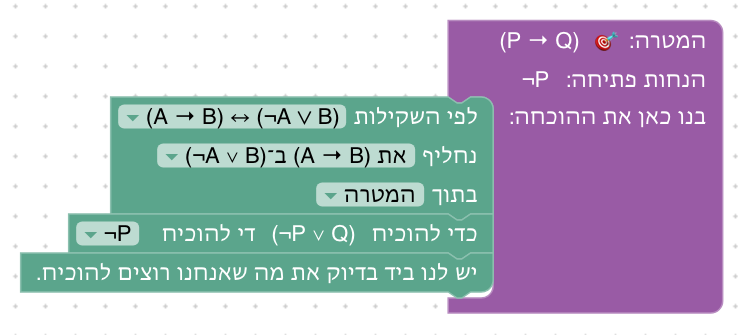
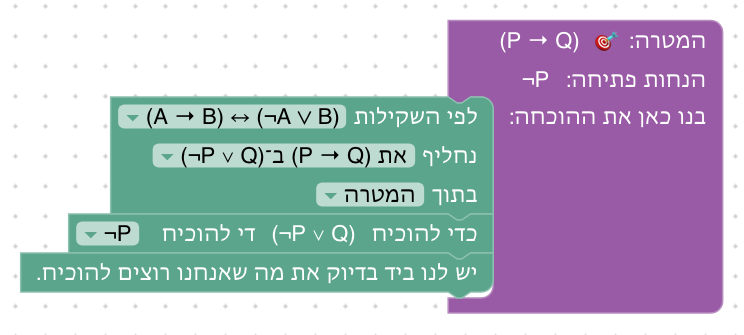
Show what an equivalence replaces, and offer to replace every part
The direction of the equivalence move now shows the replacement in the
chosen place, as the substitution by an equality does ("נחליף את ¬¬Q ב־Q"),
found as Lean finds it: the statement before its parts, left before right.
The move replaces that first part only; when there are several parts of the
form, it also offers "את כל הביטויים מהצורה ¬¬A ב־A" (but not for the
contrapositive, whose replacement would never end).

Changed region(s): [[0.1855, 0.4179, 0.5565, 0.5075]]

diff --git a/frontend/src/blocks/moves.js b/frontend/src/blocks/moves.js
@@ -112,23 +112,103 @@ class FieldDirection extends Blockly.FieldDropdown {
 // quantifier is restated with the bound variable of the formula it is used in
 // (see variable), so that a substitution keeps the formula's names. Double
 // negation is used only to remove one: backward, its side A fits any statement.
+// Each side of a law: when a formula has its form (match, giving the parts),
+// and the formula it is for given parts (text, in Lean's spelling).
+const both = (symbol, negatedLeft, negatedRight) => ({
+    match: (formula) => {
+        const sides = splitConnective(formula, symbol);
+        if (!sides) return null;
+        const a = negatedLeft ? negatedStatement(sides[0]) : sides[0];
+        const b = negatedRight ? negatedStatement(sides[1]) : sides[1];
+        return a && b ? { a, b } : null;
+    },
+    text: ({ a, b }) => `(${negatedLeft ? '¬' : ''}(${a})) ${symbol} (${negatedRight ? '¬' : ''}(${b}))`,
+});
+const negated = (symbol) => ({
+    match: (formula) => {
+        const sides = splitConnective(negatedStatement(formula), symbol);
+        return sides ? { a: sides[0], b: sides[1] } : null;
+    },
+    text: ({ a, b }) => `¬((${a}) ${symbol} (${b}))`,
+});
+const quantified = (symbol, negatedOutside) => ({
+    match: (formula) => {
+        const quantifier = splitQuantifier(negatedOutside ? negatedStatement(formula) : formula, symbol);
+        if (!quantifier) return null;
+        const body = negatedOutside ? quantifier.body : negatedStatement(quantifier.body);
+        return body ? { x: quantifier.variable, body } : null;
+    },
+    text: ({ x, body }) => (negatedOutside ? `¬${symbol} ${x}, ${body}` : `${symbol} ${x}, ¬(${body})`),
+});
+const negatedTwice = {
+    match: (formula) => {
+        const denied = negatedStatement(negatedStatement(formula));
+        return denied ? { a: denied } : null;
+    },
+    text: ({ a }) => `¬¬(${a})`,
+};
+const any = { match: (formula) => ({ a: formula }), text: ({ a }) => a };
+// Contraposition: ¬B → ¬A has the parts in the other order.
+const contraposed = {
+    match: (formula) => {
+        const parts = both('→', true, true).match(formula);
+        return parts && { a: parts.b, b: parts.a };
+    },
+    text: ({ a, b }) => `(¬(${b})) → (¬(${a}))`,
+};
+
+// Unit 5. The laws of logical equivalence, each proved in both directions in
+// earlier levels, as students read them (with schematic letters A, B, as the
+// moves of unit 3 do), as Lean's lemmas (EQUIV_PRELUDE), and as the forms of
+// their two sides, to show what a replacement replaces. A law about a
+// quantifier is restated with the bound variable of the formula it is used in
+// (see variable), so that a substitution keeps the formula's names. Double
+// negation is used only to remove one: backward, its side A fits any statement.
 export const LAWS = [
-    { value: 'easylean_not_not', left: '¬¬A', right: 'A', backward: false },
-    { value: 'easylean_not_or', left: '¬(A ∨ B)', right: '(¬A ∧ ¬B)' },
-    { value: 'easylean_not_and', left: '¬(A ∧ B)', right: '(¬A ∨ ¬B)' },
-    { value: 'easylean_imp_or', left: '(A → B)', right: '(¬A ∨ B)' },
-    { value: 'easylean_contrapositive', left: '(A → B)', right: '(¬B → ¬A)' },
+    { value: 'easylean_not_not', left: '¬¬A', right: 'A', backward: false, sides: [negatedTwice, any] },
+    { value: 'easylean_not_or', left: '¬(A ∨ B)', right: '(¬A ∧ ¬B)', sides: [negated('∨'), both('∧', true, true)] },
+    { value: 'easylean_not_and', left: '¬(A ∧ B)', right: '(¬A ∨ ¬B)', sides: [negated('∧'), both('∨', true, true)] },
+    { value: 'easylean_imp_or', left: '(A → B)', right: '(¬A ∨ B)', sides: [both('→', false, false), both('∨', true, false)] },
+    // Replacing every implication by its contrapositive would never end.
+    { value: 'easylean_contrapositive', left: '(A → B)', right: '(¬B → ¬A)', sides: [both('→', false, false), contraposed], all: false },
     {
-        value: 'easylean_not_exists', left: '¬∃x P(x)', right: '∀x ¬P(x)',
+        value: 'easylean_not_exists', left: '¬∃x P(x)', right: '∀x ¬P(x)', sides: [quantified('∃', true), quantified('∀', false)],
         statement: (x) => `(¬∃ ${x}, p ${x}) ↔ ∀ ${x}, ¬p ${x}`,
         variable: [/¬\s*∃\s*\(?\s*([^\s,:()]+)/, /∀\s*\(?\s*([^\s,:()]+)[^,]*,\s*¬/],
     },
     {
-        value: 'easylean_not_forall', left: '¬∀x P(x)', right: '∃x ¬P(x)',
+        value: 'easylean_not_forall', left: '¬∀x P(x)', right: '∃x ¬P(x)', sides: [quantified('∀', true), quantified('∃', false)],
         statement: (x) => `(¬∀ ${x}, p ${x}) ↔ ∃ ${x}, ¬p ${x}`,
         variable: [/¬\s*∀\s*\(?\s*([^\s,:()]+)/, /∃\s*\(?\s*([^\s,:()]+)[^,]*,\s*¬/],
     },
 ];
+
+// The parts of a formula, in the order Lean's rewrite looks at them: a
+// formula before its parts, and the left part before the right one.
+const formulaParts = (formula) => {
+    for (const symbol of ['↔', '→', '∨', '∧']) {
+        const sides = splitConnective(formula, symbol);
+        if (sides) return sides;
+    }
+    const denied = negatedStatement(formula);
+    if (denied) return [denied];
+    const quantifier = splitQuantifier(formula, '∀') || splitQuantifier(formula, '∃');
+    return quantifier ? [quantifier.body] : [];
+};
+
+// The parts of a formula of the given side's form, in that order, each as the
+// replacement it makes: [what is replaced, by what].
+const lawInstances = (law, backward, formula) => {
+    const [from, to] = backward ? [law.sides[1], law.sides[0]] : law.sides;
+    const found = [];
+    const search = (part) => {
+        const parts = from.match(part);
+        if (parts) found.push([from.text(parts), to.text(parts)]);
+        formulaParts(part).forEach(search);
+    };
+    if (formula && from !== any) search(formula);
+    return found;
+};
 
 const lawOf = (value) => LAWS.find((law) => law.value === value);
 const lawLabel = (law) => `${law.left} ↔ ${law.right}`;
@@ -157,16 +237,30 @@ class FieldLaw extends Blockly.FieldDropdown {
 class FieldLawDirection extends Blockly.FieldDropdown {
     constructor() {
         super(function () {
-            const law = lawOf(this.getSourceBlock()?.getFieldValue('LAW'));
+            const block = this.getSourceBlock();
+            const law = lawOf(block?.getFieldValue('LAW'));
             if (!law) return [['משמאל לימין', 'FORWARD'], ['מימין לשמאל', 'BACKWARD']];
-            const forward = [isolateHebrew(`את ${isolateFormulas(law.left)} ב־${isolateFormulas(law.right)}`), 'FORWARD'];
-            const backward = [isolateHebrew(`את ${isolateFormulas(law.right)} ב־${isolateFormulas(law.left)}`), 'BACKWARD'];
-            return law.backward === false ? [forward] : [forward, backward];
+            // What it replaces in the chosen place, when that has the side's form;
+            // otherwise the law's sides themselves.
+            const target = block.getFieldValue('TARGET');
+            const formula = target === GOAL ? block.stateBefore?.goal : filled(target) && target;
+            const sides = (backward) => (backward ? [law.right, law.left] : [law.left, law.right]).map(isolateFormulas);
+            // The first part of that form, or, when there are several, all of them.
+            const options = (backward) => {
+                const instances = lawInstances(law, backward, formula);
+                const [from, to] = instances.length ? instances[0].map(shown) : sides(backward);
+                const direction = backward ? 'BACKWARD' : 'FORWARD';
+                const first = [isolateHebrew(`את ${from} ב־${to}`), direction];
+                if (instances.length < 2 || law.all === false) return [first];
+                const [form, replacement] = sides(backward);
+                return [first, [isolateHebrew(`את כל הביטויים מהצורה ${form} ב־${replacement}`), `${direction}_ALL`]];
+            };
+            return law.backward === false ? options(false) : [...options(false), ...options(true)];
         });
     }
 
     doClassValidation_(value) {
-        return ['FORWARD', 'BACKWARD'].includes(value) ? value : null;
+        return ['FORWARD', 'BACKWARD', 'FORWARD_ALL', 'BACKWARD_ALL'].includes(value) ? value : null;
     }
 
     refreshText() {
@@ -957,14 +1051,16 @@ leanGenerator.forBlock['unfold'] = (block) => {
     return `  first\n  | (guard_target =ₛ ${statement}; apply ${definition.lemma}.mpr)\n  | have := ${definition.lemma}.mp ‹${statement}›\n`;
 };
 
-// Unit 5. `rewrite` replaces the first instance of the law's side (and every
-// copy of it); inside a quantifier, which `rewrite` cannot reach, `simp only`
-// replaces all of them. A law about a quantifier is restated, for this move
-// only, with the formula's bound variable, so that the result keeps its names.
+// Unit 5. `rewrite` replaces the first part of the form of the law's side;
+// inside a quantifier, which `rewrite` cannot reach, `simp only` does, and it
+// replaces all of them, as it does when all are chosen. A law about a
+// quantifier is restated, for this move only, with the formula's bound
+// variable, so that the result keeps its names.
 leanGenerator.forBlock['replace'] = (block) => {
     const law = lawOf(block.getFieldValue('LAW'));
     if (!law) return '  skip\n';
-    const backward = block.getFieldValue('DIRECTION') === 'BACKWARD';
+    const direction = block.getFieldValue('DIRECTION');
+    const backward = direction.startsWith('BACKWARD');
     const target = block.getFieldValue('TARGET');
     const onGoal = target === GOAL;
     const text = onGoal ? block.stateBefore?.goal || '' : target;
@@ -981,7 +1077,8 @@ leanGenerator.forBlock['replace'] = (block) => {
     }
     const rule = `${backward ? '← ' : ''}${name}`;
     const side = backward ? law.right : law.left;
-    return `  ${copy}${restated}(first | rewrite [${rule}]${at} | simp only [${rule}]${at} | fail "easylean: no part of the form ${side}")${cleanup}\n`;
+    const first = direction.endsWith('_ALL') ? '' : `rewrite (occs := .pos [1]) [${rule}]${at} | `;
+    return `  ${copy}${restated}(first | ${first}simp only [${rule}]${at} | fail "easylean: no part of the form ${side}")${cleanup}\n`;
 };
 
 // Unit 8. `rewrite`, not `rw`, which would also try to close the goal; in a

diff --git a/frontend/e2e/walk.spec.js b/frontend/e2e/walk.spec.js
@@ -293,9 +293,10 @@ const UNIT4 = [
 // Each level of unit 5, as its hints describe it.
 const replace = async (page, where, law, direction, target, log) => {
     const r = await drag(page, 'replace', where);
+    // The place first: the direction shows what is replaced there.
     await choose(page, r, 'LAW', law);
-    await choose(page, r, 'DIRECTION', direction);
     await choose(page, r, 'TARGET', target);
+    await choose(page, r, 'DIRECTION', direction);
     log(await phrase(page, r));
     return r;
 };
@@ -343,35 +344,35 @@ const UNIT5 = [
         const c = await drag(page, 'contradiction', { after: f }); await choose(page, c, 'FACT', 'P(x₀)');
     }),
     async (page, log) => {
-        const r = await replace(page, { goal: true }, IMP_OR, 'את (A → B) ב־(¬A ∨ B)', 'המטרה', log); log(await state(page));
+        const r = await replace(page, { goal: true }, IMP_OR, 'את (P → Q) ב־(¬P ∨ Q)', 'המטרה', log); log(await state(page));
         const o = await drag(page, 'or_intro', { after: r }); await choose(page, o, 'SIDE', '¬P'); log(await phrase(page, o));
         await drag(page, 'exact', { after: o });
     },
     async (page, log) => {
-        const r = await replace(page, { goal: true }, NOT_OR, 'את ¬(A ∨ B) ב־(¬A ∧ ¬B)', '¬(P ∨ Q)', log);
+        const r = await replace(page, { goal: true }, NOT_OR, 'את ¬(P ∨ Q) ב־(¬P ∧ ¬Q)', '¬(P ∨ Q)', log);
         const d = await drag(page, 'and_elim', { after: r }); await choose(page, d, 'AND', '(¬P ∧ ¬Q)'); log(await phrase(page, d));
         await drag(page, 'exact', { after: d });
     },
     async (page, log) => {
         const a = await drag(page, 'assume', { goal: true }); log(await phrase(page, a));
-        const r = await replace(page, { after: a }, '(A → B) ↔ (¬B → ¬A)', 'את (A → B) ב־(¬B → ¬A)', 'המטרה', log);
+        const r = await replace(page, { after: a }, '(A → B) ↔ (¬B → ¬A)', 'את (P → Q) ב־(¬Q → ¬P)', 'המטרה', log);
         await drag(page, 'exact', { after: r });
     },
     async (page, log) => {
         const a = await drag(page, 'assume', { goal: true }); log(await phrase(page, a));
-        const r1 = await replace(page, { after: a }, NOT_OR, 'את ¬(A ∨ B) ב־(¬A ∧ ¬B)', '¬(P ∨ ¬Q)', log);
-        const r2 = await replace(page, { after: r1 }, '¬¬A ↔ A', 'את ¬¬A ב־A', '(¬P ∧ ¬¬Q)', log);
+        const r1 = await replace(page, { after: a }, NOT_OR, 'את ¬(P ∨ ¬Q) ב־(¬P ∧ ¬¬Q)', '¬(P ∨ ¬Q)', log);
+        const r2 = await replace(page, { after: r1 }, '¬¬A ↔ A', 'את ¬¬Q ב־Q', '(¬P ∧ ¬¬Q)', log);
         await drag(page, 'exact', { after: r2 });
     },
     async (page, log) => {
         const a = await drag(page, 'assume', { goal: true }); log(await phrase(page, a));
-        const r1 = await replace(page, { after: a }, '¬∀x P(x) ↔ ∃x ¬P(x)', 'את ¬∀x P(x) ב־∃x ¬P(x)', '¬∀x ∃y R(x,y)', log);
-        const r2 = await replace(page, { after: r1 }, '¬∃x P(x) ↔ ∀x ¬P(x)', 'את ¬∃x P(x) ב־∀x ¬P(x)', '∃x ¬∃y R(x,y)', log); log(await state(page));
+        const r1 = await replace(page, { after: a }, '¬∀x P(x) ↔ ∃x ¬P(x)', 'את ¬∀x ∃y R(x,y) ב־∃x ¬∃y R(x,y)', '¬∀x ∃y R(x,y)', log);
+        const r2 = await replace(page, { after: r1 }, '¬∃x P(x) ↔ ∀x ¬P(x)', 'את ¬∃y R(x,y) ב־∀y ¬R(x,y)', '∃x ¬∃y R(x,y)', log); log(await state(page));
         await drag(page, 'exact', { after: r2 });
     },
     async (page, log) => {
         const a = await drag(page, 'assume', { goal: true }); log(await phrase(page, a));
-        const r = await replace(page, { after: a }, IMP_OR, 'את (¬A ∨ B) ב־(A → B)', 'המטרה', log);
+        const r = await replace(page, { after: a }, IMP_OR, 'את (¬P ∨ ¬Q) ב־(P → ¬Q)', 'המטרה', log);
         const a2 = await drag(page, 'assume', { after: r }); log(await phrase(page, a2));
         const n = await drag(page, 'not_intro', { after: a2 }); log(await phrase(page, n));
         const e = await drag(page, 'not_elim', { after: n }); await choose(page, e, 'NEGATION', '¬(P ∧ Q)'); log(await phrase(page, e));

diff --git a/frontend/src/game/moves.test.js b/frontend/src/game/moves.test.js
@@ -241,10 +241,10 @@ describe('the moves of unit 5', () => {
         const { workspace } = solved(level, UNITS[5].levels[5][0].steps);
         const code = generateGameLeanCode(workspace, level, '', { includeFallback: false });
         expect(code).toContain('theorem easylean_imp_or ');
-        expect(code).toContain('  (first | rewrite [easylean_imp_or] | simp only [easylean_imp_or] | fail "easylean: no part of the form (A → B)")\n');
+        expect(code).toContain('  (first | rewrite (occs := .pos [1]) [easylean_imp_or] | simp only [easylean_imp_or] | fail "easylean: no part of the form (A → B)")\n');
         const inHand = solved(unit5Levels[6], UNITS[5].levels[6][0].steps).workspace;
         expect(generateGameLeanCode(inHand, unit5Levels[6], '', { includeFallback: false }))
-            .toContain('  have := ‹¬(P ∨ Q)›; (first | rewrite [easylean_not_or] at this | simp only [easylean_not_or] at this | fail "easylean: no part of the form ¬(A ∨ B)")\n');
+            .toContain('  have := ‹¬(P ∨ Q)›; (first | rewrite (occs := .pos [1]) [easylean_not_or] at this | simp only [easylean_not_or] at this | fail "easylean: no part of the form ¬(A ∨ B)")\n');
     });
 
     it('keep the bound variables of the formula when a law is about a quantifier', () => {
@@ -255,14 +255,22 @@ describe('the moves of unit 5', () => {
         expect(code).toContain('have easylean_law : ∀ (α : Type) (p : α → Prop), (¬∃ y, p y) ↔ ∀ y, ¬p y := fun _ _ => easylean_not_exists;');
     });
 
-    it("offer the level's laws, and the directions of the chosen one", () => {
+    it("offer the level's laws, and what the chosen one replaces in the chosen place", () => {
         setLevelLaws(unit5Levels[8].laws);
         const { blocks: [, first, second] } = solved(unit5Levels[8], UNITS[5].levels[8][0].steps);
         expect(options(first, 'LAW')).toEqual([['?', '?'], ['¬(A ∨ B) ↔ (¬A ∧ ¬B)', 'easylean_not_or'], ['¬¬A ↔ A', 'easylean_not_not']]);
-        expect(options(first, 'DIRECTION')).toEqual([['את ¬(A ∨ B) ב־(¬A ∧ ¬B)', 'FORWARD'], ['את (¬A ∧ ¬B) ב־¬(A ∨ B)', 'BACKWARD']]);
+        // The place has no part of the other side's form: that direction shows the law.
+        expect(options(first, 'DIRECTION')).toEqual([['את ¬(P ∨ ¬Q) ב־(¬P ∧ ¬¬Q)', 'FORWARD'], ['את (¬A ∧ ¬B) ב־¬(A ∨ B)', 'BACKWARD']]);
         // Double negation only removes one: backward, A fits any statement.
-        expect(options(second, 'DIRECTION')).toEqual([['את ¬¬A ב־A', 'FORWARD']]);
+        expect(options(second, 'DIRECTION')).toEqual([['את ¬¬Q ב־Q', 'FORWARD']]);
         setLevelLaws([]);
+    });
+
+    it('offer to replace all the parts of the form, when there are several', () => {
+        const { blocks: [replace] } = solved(unit5Levels[8], [['replace', { LAW: 'easylean_not_not', TARGET: '¬¬P ∧ (Q ∨ ¬¬¬Q)' }]]);
+        expect(options(replace, 'DIRECTION')).toEqual([['את ¬¬P ב־P', 'FORWARD'], ['את כל הביטויים מהצורה ¬¬A ב־A', 'FORWARD_ALL']]);
+        replace.setFieldValue('FORWARD_ALL', 'DIRECTION');
+        expect(leanGenerator.blockToCode(replace)).toBe('  have := ‹¬¬P ∧ (Q ∨ ¬¬¬Q)›; (first | simp only [easylean_not_not] at this | fail "easylean: no part of the form ¬¬A")\n');
     });
 });
 

diff --git a/docs/curriculum/05-equivalences.md b/docs/curriculum/05-equivalences.md
@@ -55,9 +55,9 @@
 
 **הוחלט: שקילות משמשת רק אחרי ששני הכיוונים שלה הוכחו.** כך ההחלפה היא כלל נגזר, כמו בספרי הדדוקציה הטבעית, ולא עובדה שמקבלים מהמערכת: כל שקילות בתפריט היא משהו שהסטודנט עצמו הוכיח. לכן ארבעה מחמשת השלבים הראשונים משלימים את הכיוונים שחסרו ביחידות 3 ו־4 (ראו הטבלה), ושלב 5.3 מוכיח שקילות חדשה בשני הכיוונים. לשלילה הכפולה שני הכיוונים כבר הוכחו ביחידה 3. דה מורגן ל"וגם" הוכח בשלב 5.11 בכיוון אחד בלבד, ולכן הוא לא מופיע בתפריט של אף שלב, אף שהוא מוגדר בין השקילויות של המהלך (`easylean_not_and` ב־`LAWS`).
 
-**הוחלט: בתפריט השקילויות כתובות באותיות סכמטיות A ו־B,** כמו הבלוקים של יחידה 3 בטבלאות, ולא כמופע שלהן בטענה ("את ¬(P ∨ Q) ב־(¬P ∧ ¬Q)"). מה שיצא מההחלפה רואים במצב ההוכחה: במטרה החדשה, או בטענה החדשה שבידינו. כך הסטודנט צריך לזהות בעצמו שהטענה היא מופע של השקילות (ש־P ממלא את A ו־Q את B), וזה הצעד הלוגי של המהלך. ראו שאלה (ה) בסוף.
+**הוחלט: השקילות כתובה באותיות סכמטיות A ו־B, וההחלפה כתובה כמו שהיא בטענה.** ברשימת השקילויות החוקים כתובים כמו הבלוקים של יחידה 3 ("¬(A ∨ B) ↔ (¬A ∧ ¬B)"). אחרי שבוחרים מקום, השורה "נחליף" כותבת את ההחלפה עצמה, למשל "את ¬(P ∨ ¬Q) ב־(¬P ∧ ¬¬Q)", או "את ¬¬Q ב־Q" (בהצעת מחבר הקורס), כמו שהכיוון כתוב בהחלפה לפי שוויון. הבלוק מחפש בטענה את החלק הראשון שיש לו הצורה של צד השקילות, באותו סדר שבו Lean מחפש: קודם הטענה כולה, ואחר כך החלקים שלה משמאל לימין. כשאין במקום חלק כזה, הכיוון כתוב באותיות של השקילות.
 
-**הוחלט: הבלוק אומר "נחליף", בלי לומר כמה פעמים.** ב־Lean ההחלפה היא `rewrite`, שמחליף את המופע הראשון שהוא מוצא של הצד שנבחר, וכל עותק זהה שלו. בתוך כמת `rewrite` לא מגיע (הוא לא מחליף מתחת למשתנה קשור), ואז המהלך עובר ל־`simp only`, שמחליף את כל המופעים. בשלבים של היחידה יש בכל מקום מופע אחד בלבד, ולכן ההבדל לא נראה.
+**הוחלט: מחליפים את החלק הראשון, או את כל החלקים מאותה צורה.** "את ¬¬Q ב־Q" מחליף רק את החלק הראשון (ב־Lean, `rewrite (occs := .pos [1])`). כשיש במקום כמה חלקים מהצורה של הצד, הרשימה מציעה גם "את כל הביטויים מהצורה ¬¬A ב־A" (`simp only`), גם זה בהצעת מחבר הקורס. בתוך כמת `rewrite` לא מגיע (הוא לא מחליף מתחת למשתנה קשור), ואז המהלך עובר ל־`simp only`, שמחליף את כולם; בשלבים של היחידה יש בכל מקום חלק אחד כזה בלבד, ולכן ההבדל לא נראה. לקונטרה־פוזיציה אין "את כל הביטויים": ההחלפה הזאת לא נעצרת (ראו המגבלה).
 
 **ב־Lean.** השקילויות מוכחות שוב ב־Lean, כמשפטים של הקורס (`EQUIV_PRELUDE` ב־`frontend/src/generator/lean.js`): `easylean_not_not`, `easylean_not_or`, `easylean_not_and`, `easylean_imp_or`, `easylean_contrapositive`, `easylean_not_exists`, `easylean_not_forall`. ההקדמה נוספת רק לשלבים שיש להם שקילויות (`level.laws`), ולכן לא מאטה את שאר השלבים. גם התפריט של המהלך מציע רק את השקילויות של השלב (`level.laws`), כמו שבארגז יש רק המהלכים של השלב.
 
@@ -166,7 +166,7 @@
 ![שלב 5.6](images/unit5-level6-a.png)
 
 **שיקולים ושאלות להכרעה.**
-- הבלוק לא כותב מה התקבל: את ¬P ∨ Q רואים רק במצב ההוכחה, ובבלוק הבא ("כדי להוכיח (¬P ∨ Q) די להוכיח ..."). האם הסטודנטים יבחינו בשינוי של המטרה? ראו שאלה (ה) בסוף.
+- הבלוק כותב את ההחלפה ("נחליף את (P → Q) ב־(¬P ∨ Q)"), ואת המטרה החדשה רואים במצב ההוכחה ובבלוק הבא ("כדי להוכיח (¬P ∨ Q) די להוכיח ...").
 - הטקסט מסביר את האמת הריקה דרך השקילות. ביחידה 3 אפשר היה להוכיח את אותה טענה בדרך אחרת (נניח P, ומסתירה נובע הכול). האם להזכיר את הדרך הזאת בסיום, כדי שהאמת הריקה לא תיראה כתלויה בשקילות?
 
 ### שלב 5.7: מחליפים בהנחה
@@ -233,7 +233,7 @@
 ![שלב 5.10](images/unit5-level10-a.png)
 
 **שיקולים ושאלות להכרעה.**
-- בתפריט השקילות כתובה עם x ו־P, אבל בהחלפה השנייה המשתנה הוא y והתכונה היא R(x,y). זו בדיוק ההכללה שהשלב מלמד, אבל היא עלולה לבלבל. ראו שאלה (ה) בסוף.
+- ברשימה השקילות כתובה עם x ו־P, ובשורה "נחליף" כתובה ההחלפה עם y ו־R(x,y): "את ¬∃y R(x,y) ב־∀y ¬R(x,y)". כך רואים איך החוק הכללי חל על הטענה.
 - ייתכן שיש דרך שנייה, אחורה מהמטרה, בכיוונים ההפוכים של אותן שקילויות (∃x ∀y ¬R(x,y) ⟵ ∃x ¬∃y R(x,y) ⟵ ¬∀x ∃y R(x,y)). היא לא נבדקה ואינה בין הפתרונות. אם היא עובדת, להוסיף אותה כפתרון שני ולהזכיר אותה ברמזים?
 
 ### שלב 5.11: שלב בונוס: דה מורגן ל"וגם"
@@ -258,7 +258,7 @@
 - **(ב) דה מורגן ל"וגם" כשקילות.** שלב 5.11 מוכיח רק את הכיוון →. הכיוון ← קל (נניח ¬A ∨ ¬B ונניח A ∧ B, ונחלק למקרים). להוסיף אותו כשלב, כדי ש־`¬(A ∧ B) ↔ (¬A ∨ ¬B)` (כבר מוגדרת ב־`LAWS` כ־`easylean_not_and`) תיכנס לתפריט? אם כן, לפני 5.11 או אחריו?
 - **(ג) לאחד את 5.4 ו־5.5?** שתי ההוכחות כמעט זהות: הנחה, הוכחת שלילה, שימוש ב"קיים", הצבה ב"לכל" וסתירה. אפשר לאחד אותן לשלב אחד, למשל עם המטרה כשקילות (`¬∃x P(x) ↔ ∀x ¬P(x)` בשני הכיוונים, כשהכיוון → חוזר על 4.8), או להשאיר שני שלבים קצרים, שכל אחד משלים שקילות אחרת.
 - **(ד) לפצל את 5.3?** השלב ארוך (16 בלוקים), ובארגז 11 מהלכים. אפשר לפצל אותו לשני שלבים, כיוון בכל אחד, ולהשאיר את ההוכחה בשני הכיוונים כרגע שבו השקילות "נסגרת". המחיר: היחידה מתארכת בשלב נוסף לפני המהלך החדש.
-- **(ה) להראות בבלוק את המופע של השקילות?** כרגע התפריט כתוב באותיות סכמטיות ("את ¬(A ∨ B) ב־(¬A ∧ ¬B)"), והתוצאה נראית רק במצב ההוכחה. אפשרות: אחרי שבוחרים מקום, לכתוב בבלוק את ההחלפה עצמה ("את ¬(P ∨ Q) ב־(¬P ∧ ¬Q)"), כמו שהכיוון בהחלפה לפי שוויון מוצג. זה קרוב יותר להוכחה כתובה, אבל דורש לחשב בצד הבלוק את ההתאמה בין השקילות לטענה (מה ממלא את A ואת B, ואיזה מופע מוחלף), והסטודנט כבר לא צריך לזהות בעצמו את המופע.
+- **(ה) הוחלט:** הבלוק כותב את ההחלפה עצמה, ומציע גם להחליף את כל החלקים מאותה צורה (ראו בתחילת המסמך).
 
 ## רקע: מה עושים מדריכים אחרים
 
